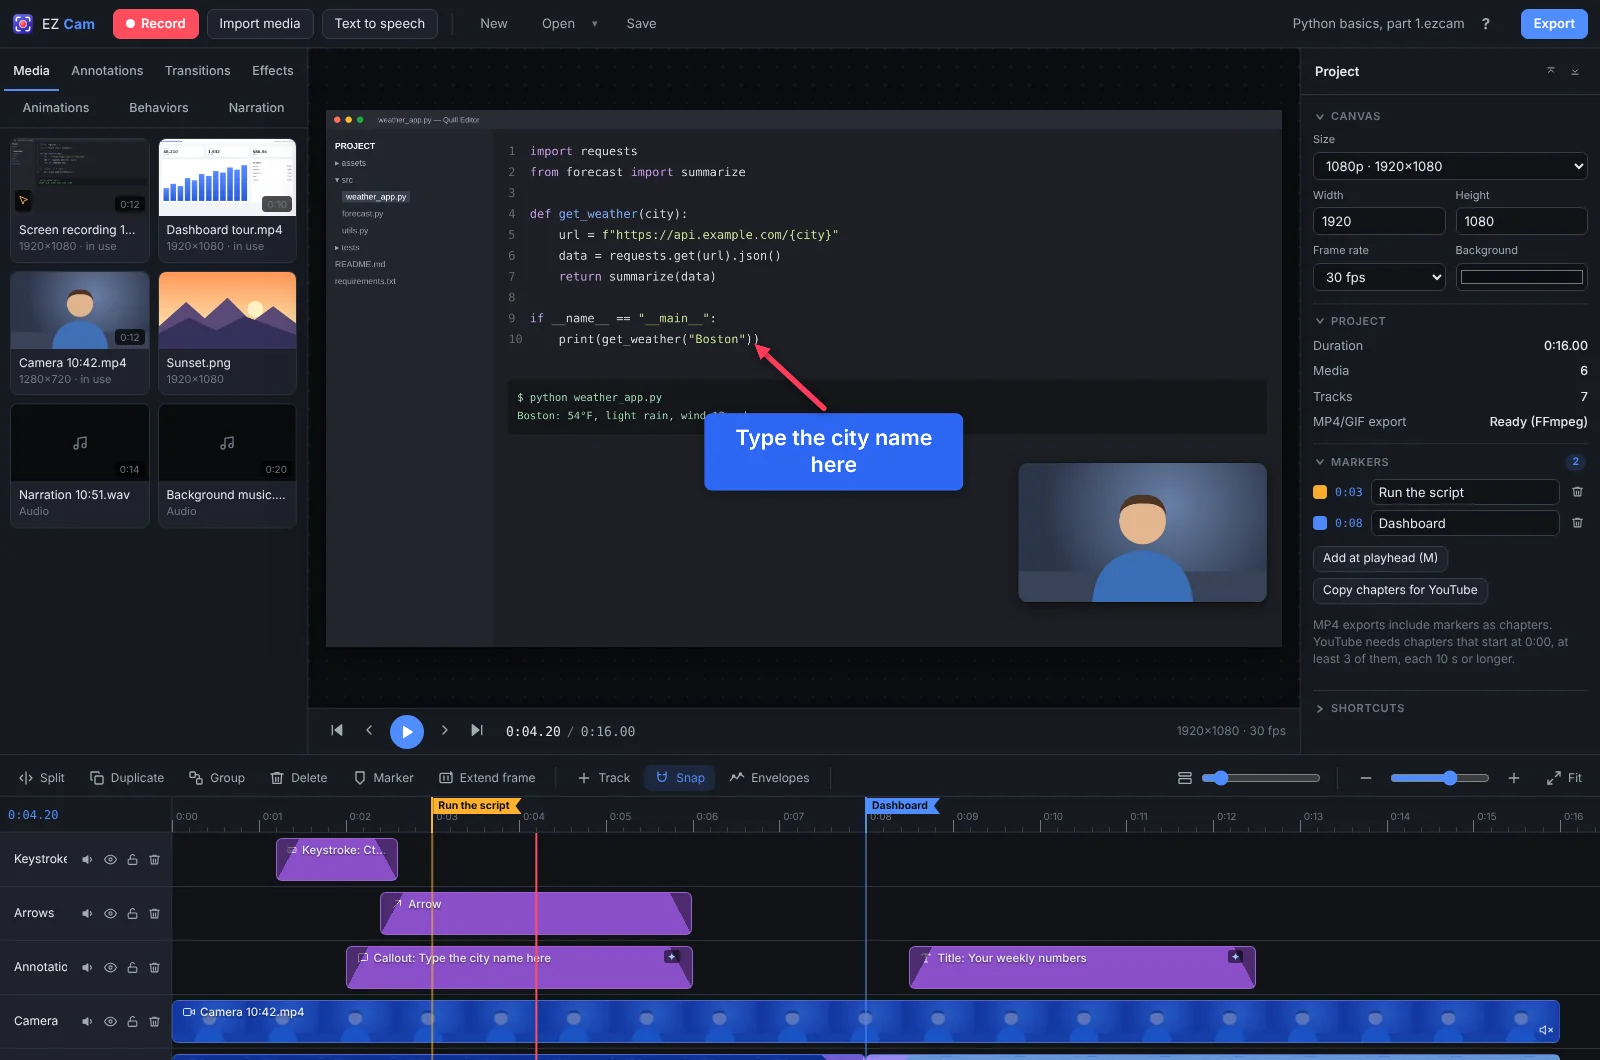
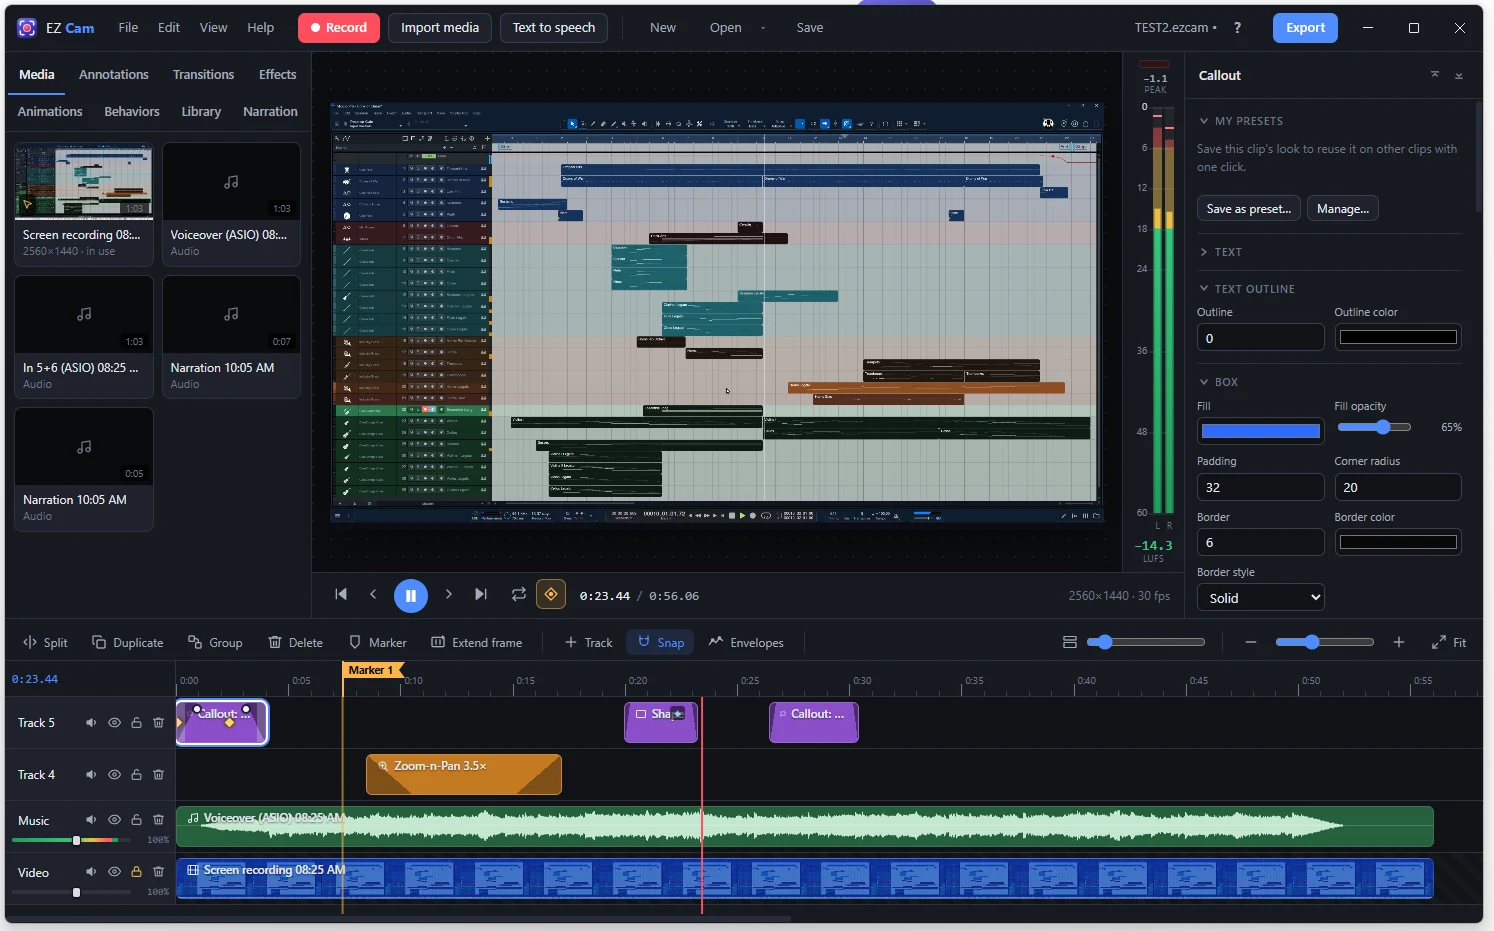
Use the new editor screenshot on the home page
Claude-Session: https://claude.ai/code/session_012L6kwPxCc2MJygyD2RMKVA

diff --git a/index.html b/index.html
@@ -18,7 +18,7 @@
     <section class="hero">
       <h1>Record it. Edit it. Share it.</h1>
       <p>EZ Cam is a screen recorder and video editor for Windows. Record your screen, camera and voice, polish it on a timeline, and upload it straight to your YouTube channel.</p>
-      <img class="shot" src="assets/screenshot.webp" width="1600" height="1060" alt="The EZ Cam editor with a screen recording, a camera picture-in-picture, a callout and the timeline">
+      <img class="shot" src="assets/screenshot.webp" width="1494" height="931" alt="The EZ Cam editor: a screen recording with a callout, the level meter, and the timeline with music, a zoom and annotations">
     </section>
 
     <section class="features" id="features">
